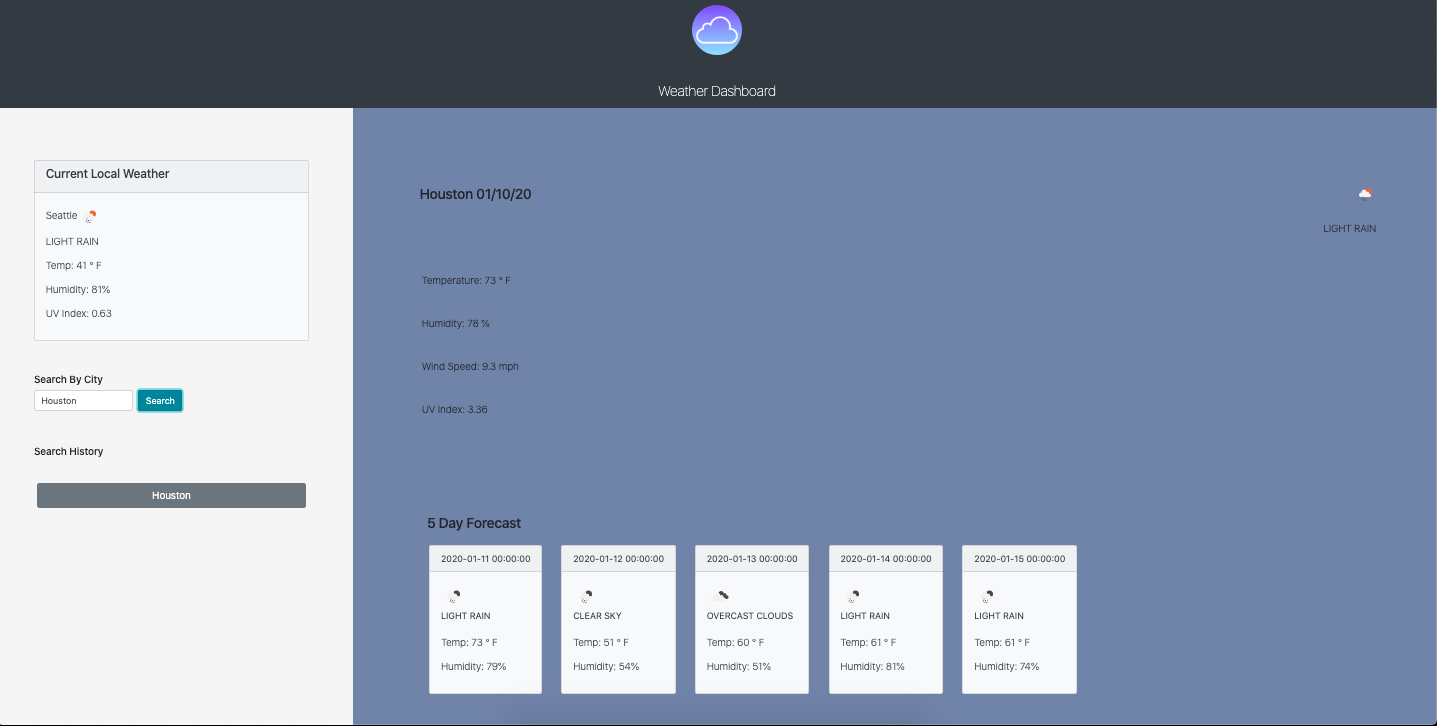
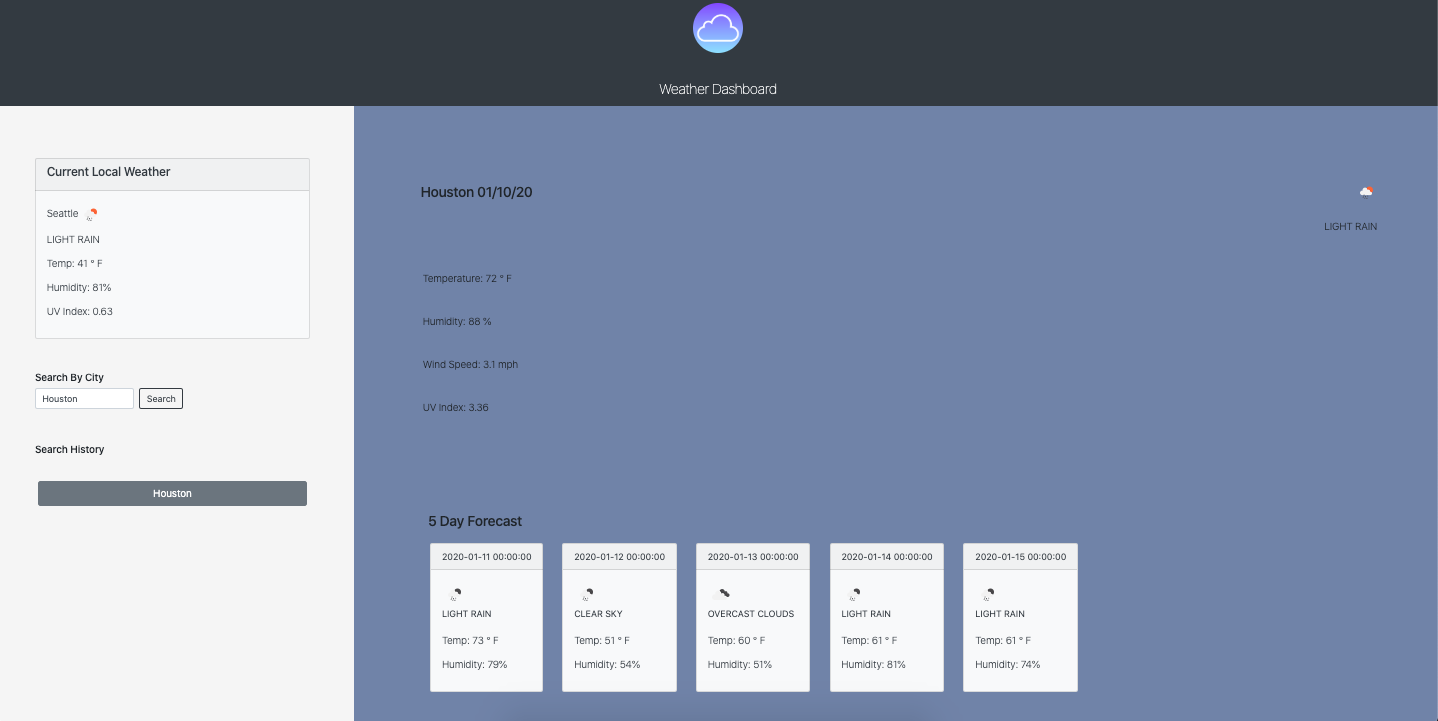
Photo updates to reflect button change.

diff --git a/index.html b/index.html
@@ -73,7 +73,7 @@
                   <div class="col-auto">
                     <button
                       type="button"
-                      class="btn btn-info mb-2 cityInputButton"
+                      class="btn btn-outline-dark mb-2 cityInputButton"
                     >
                       <span class="glyphicon glyphicon-search"></span> Search
                     </button>
